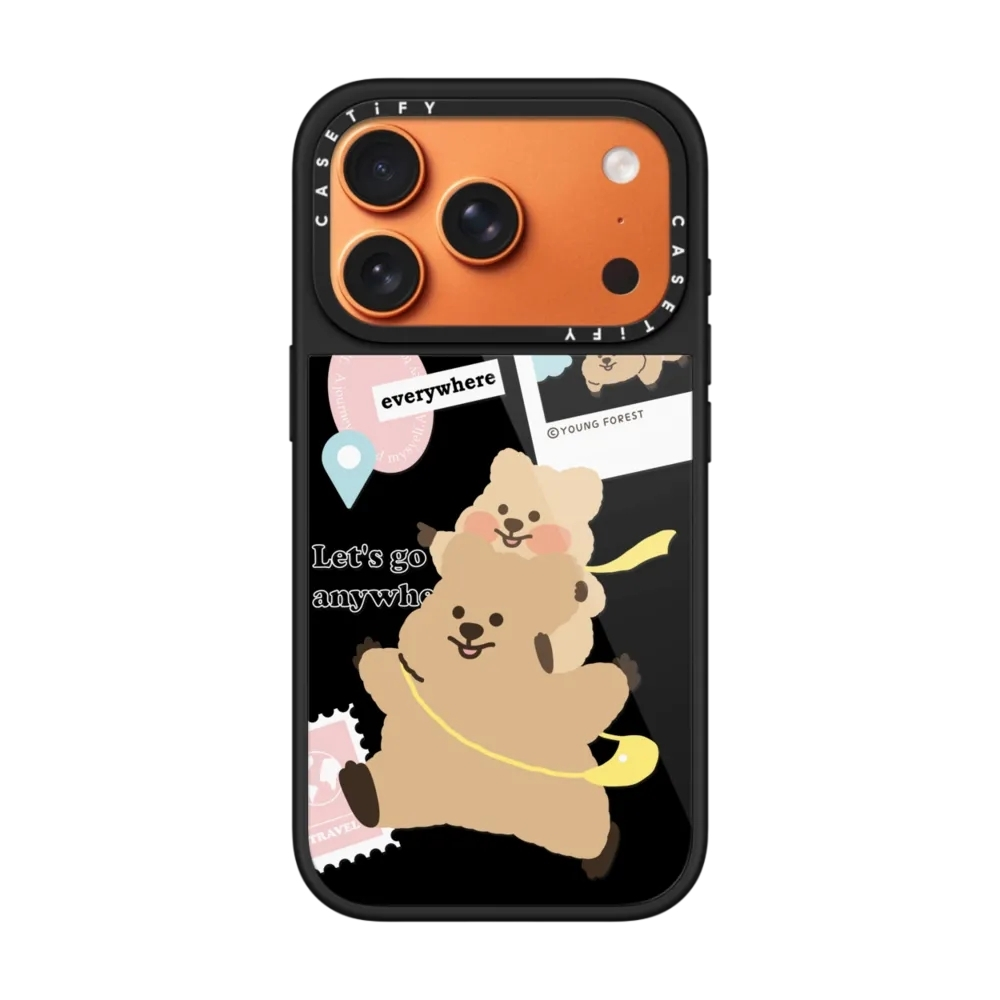
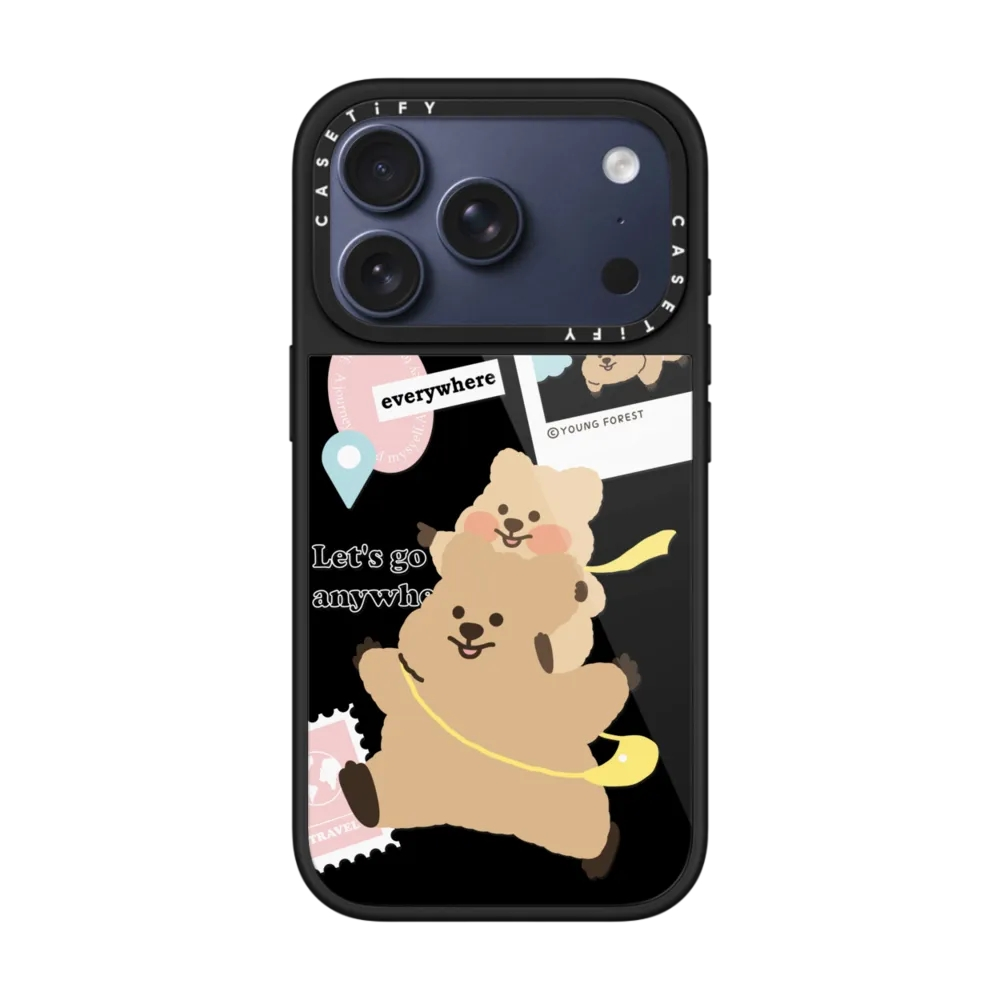
핸드폰 이미지 디테일 수정

Changed region(s): [[0.31, 0.093, 0.682, 0.341]]

diff --git a/src/components/sub/DetailPage.jsx b/src/components/sub/DetailPage.jsx
@@ -1,4 +1,4 @@
-import React, { useMemo, useState } from "react";
+import React, { useState } from "react";
 import { useParams } from "react-router-dom";
 import { items, modelColorOptions, colorMap } from "../../data/finalData";
 import "./scss/DetailPage.scss";
@@ -8,42 +8,78 @@ export default function DetailPage() {
 
     const item = items.find((data) => data.id === id);
 
-    const [selectedColor, setSelectedColor] = useState(
-        item?.mainCaseColor || item?.caseColors?.[0] || ""
-    );
-
-    const [selectedThumb, setSelectedThumb] = useState("main");
-
     if (!item) {
-        return <div className="detail-page"><p>상품을 찾을 수 없습니다.</p></div>;
+        return (
+            <div className="detail-page">
+                <p>상품을 찾을 수 없습니다.</p>
+            </div>
+        );
     }
 
     const isPhone = item.productTarget === "phone";
     const modelColors = isPhone ? modelColorOptions[item.modelKey] || [] : [];
-    const deviceColorKey = isPhone ? modelColors[0]?.key || "Black" : "";
 
-    const basePath = isPhone
-        ? `/images/category/products/${item.id}_${item.modelKey}_${deviceColorKey}_${selectedColor}`
+    // 선택 케이스 컬러
+    const [selectedColor, setSelectedColor] = useState(
+        item?.mainCaseColor || item?.caseColors?.[0] || ""
+    );
+
+    // 선택 기기 컬러 (메인 이미지용)
+    const [selectedDeviceColor, setSelectedDeviceColor] = useState(
+        isPhone ? modelColors[0]?.key || "" : ""
+    );
+
+    // 썸네일 선택 상태
+    const [selectedThumb, setSelectedThumb] = useState("main");
+
+    // 썸네일용 대표 기기컬러 고정
+    const fixedThumbDeviceColor = isPhone ? modelColors[0]?.key || "" : "";
+
+    // 메인 이미지 경로
+    const mainImagePath = isPhone
+        ? `/images/category/products/${item.id}_${item.modelKey}_${selectedDeviceColor}_${selectedColor}_main.jpg`
         : item.modelKey
-            ? `/images/category/products/${item.id}_${item.modelKey}_${selectedColor}`
-            : `/images/category/products/${item.id}_${selectedColor}`;
+            ? `/images/category/products/${item.id}_${item.modelKey}_${selectedColor}_main.jpg`
+            : `/images/category/products/${item.id}_${selectedColor}_main.jpg`;
 
+    // 썸네일 이미지 경로들
     const imageList = [
-        { key: "main", src: `${basePath}_main.jpg` },
-        { key: "1", src: `${basePath}_1.jpg` },
-        { key: "2", src: `${basePath}_2.jpg` },
-        { key: "3", src: `${basePath}_3.jpg` },
+        { key: "main", src: mainImagePath },
+        {
+            key: "1",
+            src: isPhone
+                ? `/images/category/products/${item.id}_${item.modelKey}_${fixedThumbDeviceColor}_${selectedColor}_1.jpg`
+                : item.modelKey
+                    ? `/images/category/products/${item.id}_${item.modelKey}_${selectedColor}_1.jpg`
+                    : `/images/category/products/${item.id}_${selectedColor}_1.jpg`,
+        },
+        {
+            key: "2",
+            src: isPhone
+                ? `/images/category/products/${item.id}_${item.modelKey}_${fixedThumbDeviceColor}_${selectedColor}_2.jpg`
+                : item.modelKey
+                    ? `/images/category/products/${item.id}_${item.modelKey}_${selectedColor}_2.jpg`
+                    : `/images/category/products/${item.id}_${selectedColor}_2.jpg`,
+        },
+        {
+            key: "3",
+            src: isPhone
+                ? `/images/category/products/${item.id}_${item.modelKey}_${fixedThumbDeviceColor}_${selectedColor}_3.jpg`
+                : item.modelKey
+                    ? `/images/category/products/${item.id}_${item.modelKey}_${selectedColor}_3.jpg`
+                    : `/images/category/products/${item.id}_${selectedColor}_3.jpg`,
+        },
     ];
 
-    const mainImage = imageList.find((img) => img.key === selectedThumb)?.src || imageList[0].src;
+    const mainImage =
+        imageList.find((img) => img.key === selectedThumb)?.src || imageList[0].src;
 
     return (
         <section className="detail-page">
             <div className="detail-inner">
                 <div className="detail-left">
                     <div className="detail-main-image">
-                        <img src={mainImage} alt="" />
-                        <p className="image-error-path">{mainImage}</p>
+                        <img src={mainImage} alt={item.productName} />
                     </div>
 
                     <ul className="detail-thumb-list">
@@ -56,8 +92,7 @@ export default function DetailPage() {
                                     type="button"
                                     onClick={() => setSelectedThumb(img.key)}
                                 >
-                                    <img src={img.src} alt="" />
-                                    <p className="image-error-path">{img.src}</p>
+                                    <img src={img.src} alt={`${item.productName} 썸네일`} />
                                 </button>
                             </li>
                         ))}
@@ -67,7 +102,9 @@ export default function DetailPage() {
                 <div className="detail-right">
                     <p className="detail-artist">{item.artist || "CASETiFY"}</p>
                     <h2 className="detail-title">{item.productName}</h2>
-                    <p className="detail-price">{Number(item.price || 0).toLocaleString()}원</p>
+                    <p className="detail-price">
+                        {Number(item.price || 0).toLocaleString()}원
+                    </p>
 
                     {!!item.modelLabel && (
                         <div className="detail-info-box">
@@ -83,9 +120,32 @@ export default function DetailPage() {
                         </div>
                     )}
 
+                    {isPhone && !!modelColors.length && (
+                        <div className="detail-info-box">
+                            <p className="label">기기 컬러</p>
+                            <div className="detail-device-colors">
+                                {modelColors.map((deviceColor) => (
+                                    <button
+                                        key={deviceColor.key}
+                                        type="button"
+                                        className={
+                                            selectedDeviceColor === deviceColor.key ? "active" : ""
+                                        }
+                                        onClick={() => {
+                                            setSelectedDeviceColor(deviceColor.key);
+                                            setSelectedThumb("main");
+                                        }}
+                                    >
+                                        {deviceColor.label}
+                                    </button>
+                                ))}
+                            </div>
+                        </div>
+                    )}
+
                     {!!item.caseColors?.length && (
                         <div className="detail-info-box">
-                            <p className="label">컬러</p>
+                            <p className="label">케이스 컬러</p>
                             <div className="detail-colors">
                                 {item.caseColors.map((color) => (
                                     <button
@@ -99,7 +159,9 @@ export default function DetailPage() {
                                     >
                                         <span
                                             className="color-chip"
-                                            style={{ backgroundColor: colorMap[color] || "#ddd" }}
+                                            style={{
+                                                backgroundColor: colorMap[color] || "#ddd",
+                                            }}
                                         />
                                         {color}
                                     </button>
@@ -125,34 +187,36 @@ export default function DetailPage() {
                         <h3>상품 안내</h3>
                         <p>
                             현재 이 페이지는 데이터 연결과 이미지 경로 확인용 임시 상세페이지야.
-                            <br />
-                            이미지 파일명:
+                            <br /><br />
+
+                            {/* 메인 */}
+                            메인 이미지:
                             <br />
                             {isPhone
-                                ? `${item.id}_${item.modelKey}_${deviceColorKey}_${selectedColor}_main.jpg`
-                                : `${item.id}_${selectedColor}_main.jpg`}
+                                ? `${item.id}_${item.modelKey}_${selectedDeviceColor}_${selectedColor}_main.jpg`
+                                : item.modelKey
+                                    ? `${item.id}_${item.modelKey}_${selectedColor}_main.jpg`
+                                    : `${item.id}_${selectedColor}_main.jpg`}
+                            <br /><br />
+
+                            {/* 상세 */}
+                            상세 이미지:
+                            <br />
+                            {isPhone
+                                ? `${item.id}_${item.modelKey}_${fixedThumbDeviceColor}_${selectedColor}_1.jpg`
+                                : item.modelKey
+                                    ? `${item.id}_${item.modelKey}_${selectedColor}_1.jpg`
+                                    : `${item.id}_${selectedColor}_1.jpg`}
+                            <br />
+                            {isPhone
+                                ? `${item.id}_${item.modelKey}_${fixedThumbDeviceColor}_${selectedColor}_2.jpg`
+                                : item.modelKey
+                                    ? `${item.id}_${item.modelKey}_${selectedColor}_2.jpg`
+                                    : `${item.id}_${selectedColor}_2.jpg`}
                         </p>
                     </div>
                 </div>
             </div>
         </section>
-    );
-}
-
-function DetailThumb({ img, isActive, onClick }) {
-    const [isVisible, setIsVisible] = useState(true);
-
-    if (!isVisible) return null;
-
-    return (
-        <li className={isActive ? "active" : ""}>
-            <button type="button" onClick={onClick}>
-                <img
-                    src={img.src}
-                    alt=""
-                    onError={() => setIsVisible(false)}
-                />
-            </button>
-        </li>
     );
 }

diff --git a/src/data/finalData.js b/src/data/finalData.js
@@ -56,7 +56,7 @@ export const items = [
     { id: "CTF-29455151-16010250", productName: "Love the Freedom KKOTKA", artist: "YOUNG FOREST", price: 83000, badge: ["무료 배송"], isNew: true, isBest: true, stockStatus: "inStock", mainCategory: "case", displaySubCategories: ["device", "design", "magsafe", "collabo"], displayMiniCategories: ["phone", "color", "signature", "art"], productTarget: "phone", modelLabel: "아이폰 16", modelKey: "iphone16", brand: "Apple", caseCategory: "글레이즈 케이스", isMagSafe: true, collabo: true, collaboCategory: "art", isSignature: true, isPattern: false, isColorCategory: true, caseColors: ["Black"], mainCaseColor: "Black", recommendRank: null, popularity: 3.52 },
     { id: "CTF-29455151-16009402", productName: "Love the Freedom KKOTKA", artist: "YOUNG FOREST", price: 108000, badge: ["무료 배송"], isNew: true, isBest: true, stockStatus: "inStock", mainCategory: "case", displaySubCategories: ["device", "design", "magsafe", "collabo"], displayMiniCategories: ["phone", "color", "signature", "art"], productTarget: "phone", modelLabel: "아이폰 17 Pro", modelKey: "iphone17pro", brand: "Apple", caseCategory: "임팩트 링 스탠드 케이스", isMagSafe: true, collabo: true, collaboCategory: "art", isSignature: true, isPattern: false, isColorCategory: true, caseColors: ["Black", "Pink", "Matte Black"], mainCaseColor: "Black", recommendRank: null, popularity: 4.82 },
     { id: "CTF-29455151-16009399", productName: "Love the Freedom KKOTKA", artist: "YOUNG FOREST", price: 108000, badge: ["무료 배송"], isNew: true, isBest: true, stockStatus: "inStock", mainCategory: "case", displaySubCategories: ["device", "design", "magsafe", "collabo"], displayMiniCategories: ["phone", "color", "signature", "art"], productTarget: "phone", modelLabel: "아이폰 17", modelKey: "iphone17", brand: "Apple", caseCategory: "임팩트 링 스탠드 케이스", isMagSafe: true, collabo: true, collaboCategory: "art", isSignature: true, isPattern: false, isColorCategory: true, caseColors: ["Black"], mainCaseColor: "Black", recommendRank: null, popularity: 4.61 },
-    { id: "CTF-29455151-16007203", productName: "Love the Freedom KKOTKA", artist: "YOUNG FOREST", price: 102000, badge: ["무료 배송"], isNew: true, isBest: true, stockStatus: "inStock", mainCategory: "case", displaySubCategories: ["device", "design", "magsafe", "collabo"], displayMiniCategories: ["phone", "color", "signature", "art"], productTarget: "phone", modelLabel: "아이폰 16 Pro", modelKey: "iphone16pro", brand: "Apple", caseCategory: "임팩트 링 스탠드 케이스", isMagSafe: true, collabo: true, collaboCategory: "art", isSignature: true, isPattern: false, isColorCategory: true, caseColors: ["Black", "Pink", "Purple", "Matte Black"], mainCaseColor: "Black", recommendRank: null, popularity: 4.49 },
+    { id: "CTF-29455151-16007203", productName: "Love the Freedom KKOTKA", artist: "YOUNG FOREST", price: 102000, badge: ["무료 배송"], isNew: true, isBest: true, stockStatus: "inStock", mainCategory: "case", displaySubCategories: ["device", "design", "magsafe", "collabo"], displayMiniCategories: ["phone", "color", "signature", "art"], productTarget: "phone", modelLabel: "아이폰 16 Pro", modelKey: "iphone16pro", brand: "Apple", caseCategory: "임팩트 링 스탠드 케이스", isMagSafe: true, collabo: true, collaboCategory: "art", isSignature: true, isPattern: false, isColorCategory: true, caseColors: ["Black", "Pink", "Purple"], mainCaseColor: "Black", recommendRank: null, popularity: 4.49 },
     { id: "CTF-29455151-16007201", productName: "Love the Freedom KKOTKA", artist: "YOUNG FOREST", price: 102000, badge: ["무료 배송"], isNew: true, isBest: true, stockStatus: "inStock", mainCategory: "case", displaySubCategories: ["device", "design", "magsafe", "collabo"], displayMiniCategories: ["phone", "color", "signature", "art"], productTarget: "phone", modelLabel: "아이폰 16", modelKey: "iphone16", brand: "Apple", caseCategory: "임팩트 링 스탠드 케이스", isMagSafe: true, collabo: true, collaboCategory: "art", isSignature: true, isPattern: false, isColorCategory: true, caseColors: ["Black"], mainCaseColor: "Black", recommendRank: null, popularity: 4.38 },
     { id: "CTF-29455151-16010927", productName: "Love the Freedom KKOTKA", artist: "YOUNG FOREST", price: 108000, badge: ["무료 배송"], isNew: true, isBest: true, stockStatus: "inStock", mainCategory: "case", displaySubCategories: ["device", "design", "magsafe", "collabo"], displayMiniCategories: ["phone", "color", "signature", "art"], productTarget: "phone", modelLabel: "갤럭시 S26", modelKey: "GalaxyS26", brand: "Samsung", caseCategory: "임팩트 링 스탠드 케이스", isMagSafe: true, collabo: true, collaboCategory: "art", isSignature: true, isPattern: false, isColorCategory: true, caseColors: ["Black"], mainCaseColor: "Black", recommendRank: null, popularity: 4.33 },
     { id: "CTF-29455151-16009420", productName: "Love the Freedom KKOTKA", artist: "YOUNG FOREST", price: 89000, badge: ["무료 배송"], isNew: true, isBest: true, stockStatus: "inStock", mainCategory: "case", displaySubCategories: ["device", "design", "magsafe", "collabo"], displayMiniCategories: ["phone", "color", "signature", "art"], productTarget: "phone", modelLabel: "아이폰 17 Pro", modelKey: "iphone17pro", brand: "Apple", caseCategory: "임팩트 클리어 케이스", isMagSafe: true, collabo: true, collaboCategory: "art", isSignature: true, isPattern: false, isColorCategory: true, caseColors: ["Clear"], mainCaseColor: "Clear", recommendRank: null, popularity: 3.29 },

diff --git a/src/components/sub/scss/DetailPage.scss b/src/components/sub/scss/DetailPage.scss
@@ -69,15 +69,15 @@
     }
 
     .image-error-path {
-        width: 100%;
+        max-width: 100%;
         padding: 12px;
         margin: 0;
-        font-size: 11px;
+        font-size: 10px;
         line-height: 1.4;
         color: #888;
         word-break: break-all;
         text-align: center;
-        display: flex;
+        display: inline-block;
         align-items: center;
         justify-content: center;
     }
@@ -179,4 +179,37 @@
             word-break: break-all;
         }
     }
+}
+
+.detail-device-colors,
+.detail-colors {
+    display: flex;
+    flex-wrap: wrap;
+    gap: 10px;
+}
+
+.detail-device-colors button,
+.detail-colors button {
+    padding: 10px 14px;
+    border: 1px solid #ddd;
+    background: #fff;
+    cursor: pointer;
+    transition: 0.2s;
+}
+
+.detail-device-colors button.active,
+.detail-colors button.active {
+    border-color: #111;
+    background: #111;
+    color: #fff;
+}
+
+.color-chip {
+    display: inline-block;
+    width: 14px;
+    height: 14px;
+    border-radius: 50%;
+    margin-right: 6px;
+    vertical-align: middle;
+    border: 1px solid #ccc;
 }
